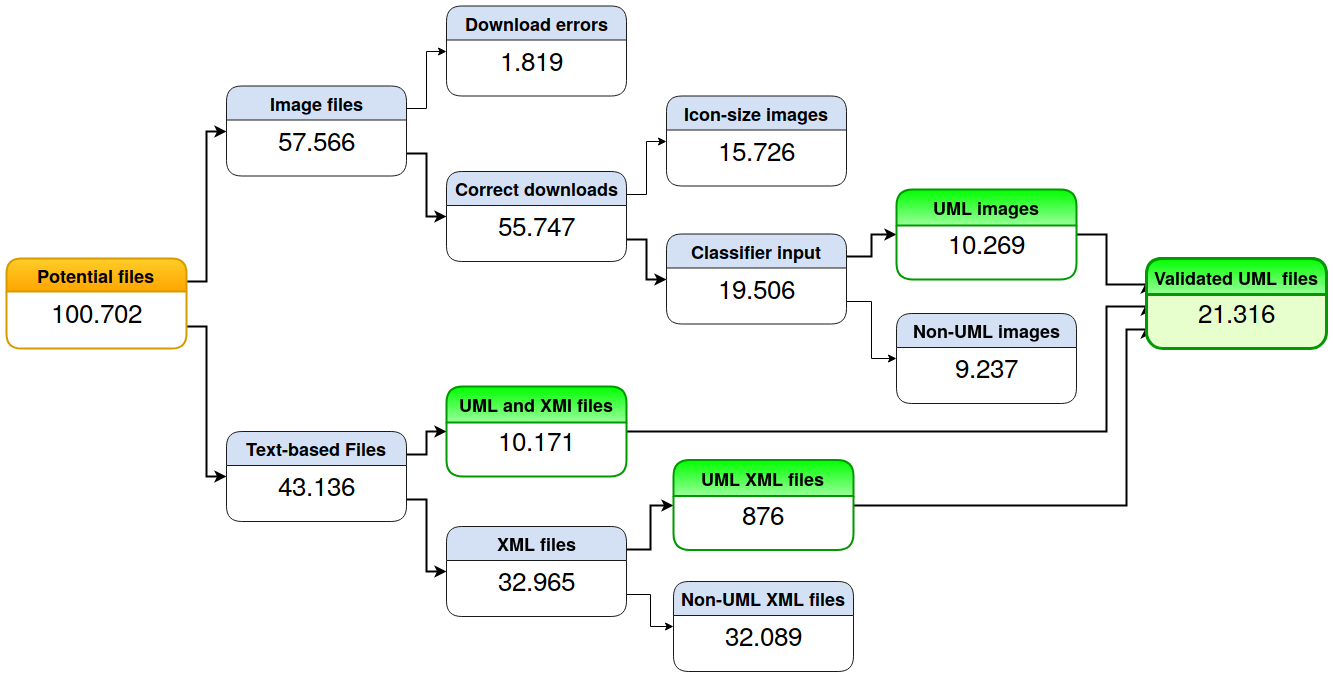
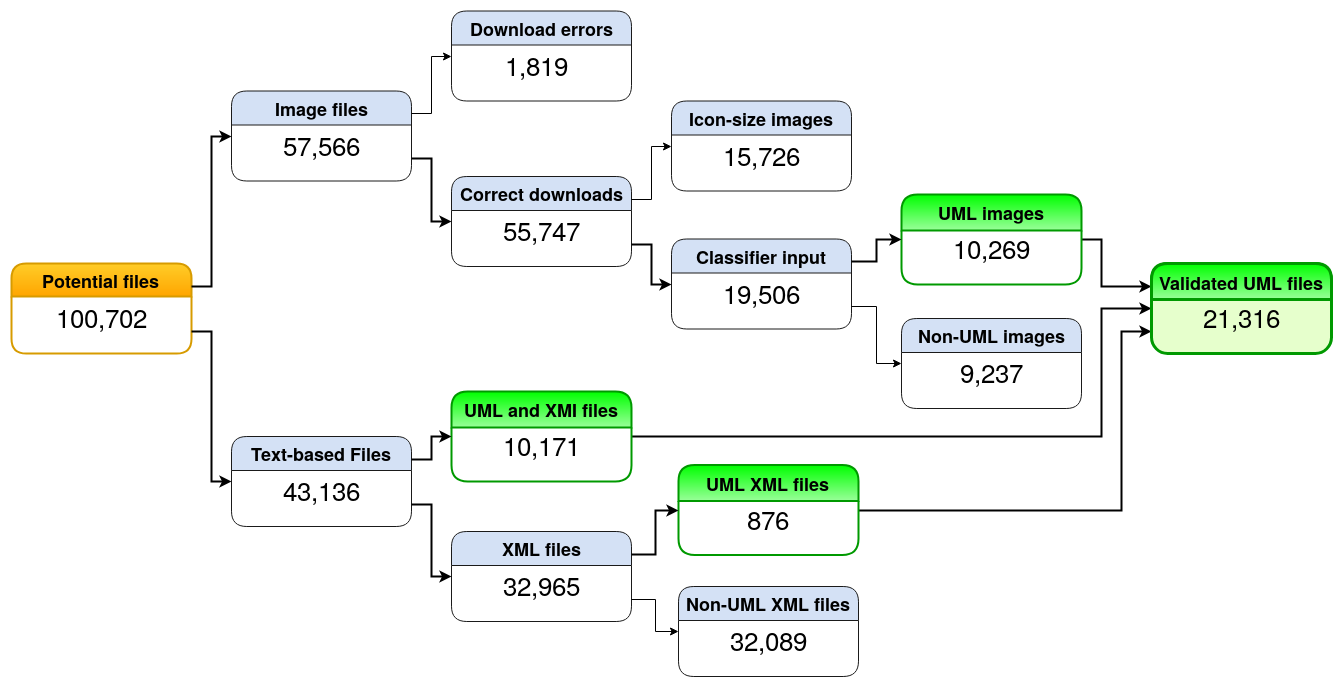
Update diagram changing number notation

Changed region(s): [[0.0, 0.0, 1.0, 0.9926], [0.6152, 0.4343, 0.6459, 0.4653], [0.3383, 0.8996, 0.3691, 0.9306]]

diff --git a/memoria.tex b/memoria.tex
@@ -1205,7 +1205,7 @@ The email and the full-name were the primary keys for this check, which resulted
  \begin{figure}
    \centering
    \includegraphics[width=16cm, keepaspectratio]{img/file-results-models-diagram}
-   \caption{Diagram: Distribution from potential files with UML to validated UML files. \textcolor{red}{FIXME: Change .-notation to ,-notation in the Figure!}}
+   \caption{Diagram: Distribution from potential files with UML to validated UML files.}
    \label{fig:validated-files-distribution}
  \end{figure}
  \begin{table}[]
